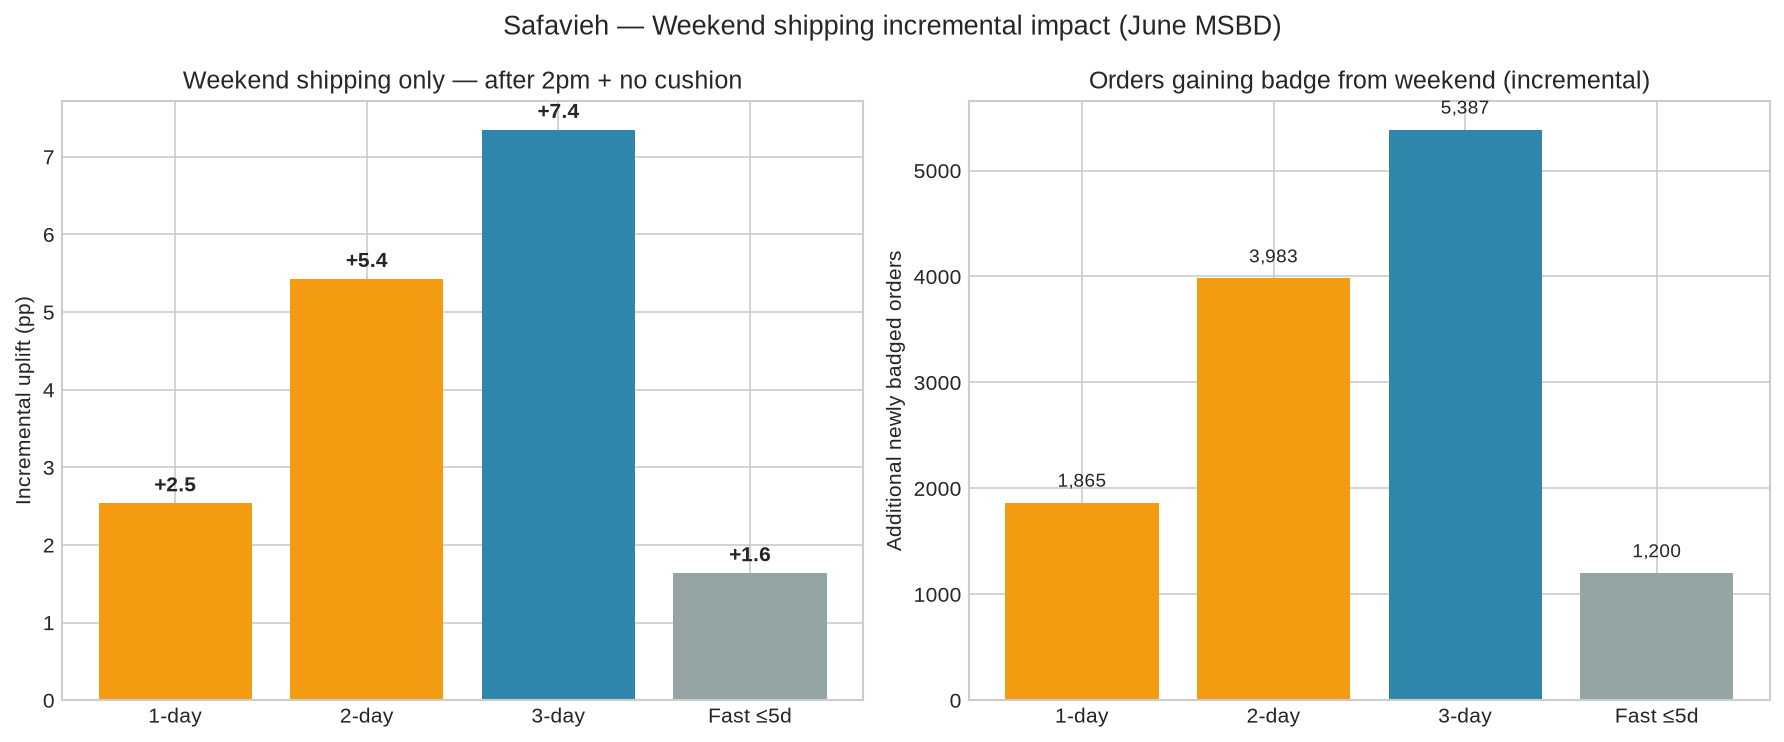
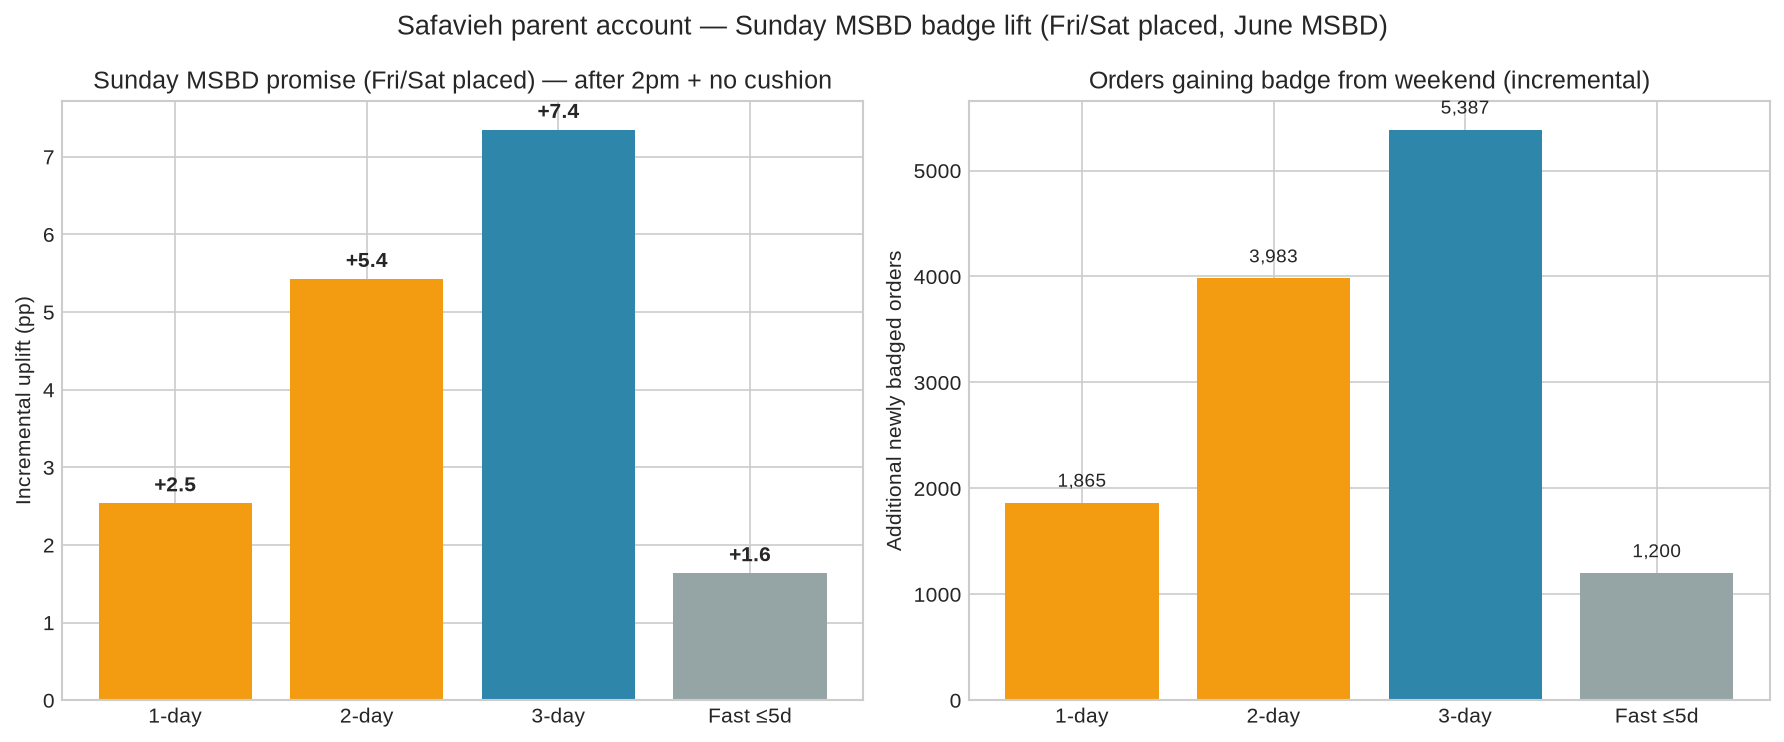
Refresh Sunday MSBD lift charts and add weekend shipping % chart
- Account + warehouse Sunday MSBD lift (Fri/Sat placed) charts 21–22
- Weekend shipping % by warehouse (induction_dow_adj 1/7) chart 20
- Extend badging gain SQL with parent account rollup; refresh charts 08–14

Changed region(s): [[0.2158, 0.0, 0.7707, 0.062], [0.0308, 0.093, 0.4624, 0.124]]

diff --git a/scripts/analyze_safavieh_charts.py b/scripts/analyze_safavieh_charts.py
@@ -21,6 +21,8 @@ WH_SIM_CSV = OUT / "safavieh_june_wh_badging_sim.csv"
 GAIN_CSV = OUT / "safavieh_june_badging_gain_by_warehouse.csv"
 GAIN_VW_CSV = OUT / "safavieh_june_badging_gain_volume_weighted.csv"
 FRI_SAT_SUN_CSV = OUT / "safavieh_june_fri_sat_sunday_induction_by_wh.csv"
+FRI_SAT_WKND_CSV = OUT / "safavieh_june_fri_sat_weekend_shipping_by_wh.csv"
+GAIN_ACCOUNT_CSV = OUT / "safavieh_june_badging_gain_account.csv"
 
 NAVY = "#1a365d"
 ACCENT = "#2e86ab"
@@ -184,7 +186,7 @@ def chart_network_cohort_current_and_lifts(scen: pd.DataFrame) -> None:
         weekend_lift,
         width,
         bottom=cur + cutoff_lift,
-        label="+ Weekend",
+        label="+ Sunday MSBD (Fri/Sat)",
         color=ORANGE,
         **edge,
     )
@@ -213,7 +215,7 @@ def chart_network_cohort_current_and_lifts(scen: pd.DataFrame) -> None:
     ax.text(
         0.99,
         0.02,
-        "Each bar = current + cutoff lift + weekend lift · 73,294 ops",
+        "Each bar = current + cutoff lift + Sunday MSBD lift (Fri/Sat) · 73,294 ops",
         transform=ax.transAxes,
         ha="right",
         fontsize=9,
@@ -244,7 +246,7 @@ def chart_weekend_incremental(scen: pd.DataFrame) -> None:
     colors = [ORANGE, ORANGE, ACCENT, GRAY]
     ax1.bar(tiers, uplifts, color=colors)
     ax1.set_ylabel("Incremental uplift (pp)")
-    ax1.set_title("Weekend shipping only — after 2pm + no cushion")
+    ax1.set_title("Sunday MSBD promise (Fri/Sat placed) — after 2pm + no cushion")
     for i, v in enumerate(uplifts):
         ax1.text(i, v + 0.15, f"+{v:.1f}", ha="center", fontweight="bold")
 
@@ -254,7 +256,10 @@ def chart_weekend_incremental(scen: pd.DataFrame) -> None:
     for i, v in enumerate(newly):
         ax2.text(i, v + 150, f"{v:,}", ha="center", fontsize=9)
 
-    fig.suptitle("Safavieh — Weekend shipping incremental impact (June MSBD)", fontsize=13)
+    fig.suptitle(
+        "Safavieh parent account — Sunday MSBD badge lift (Fri/Sat placed, June MSBD)",
+        fontsize=13,
+    )
     fig.tight_layout()
     fig.savefig(CHARTS / "08_weekend_incremental_by_tier.png", dpi=150, bbox_inches="tight")
     plt.close(fig)
@@ -386,7 +391,7 @@ def chart_wh_pp_vs_network_contribution_3d(df: pd.DataFrame) -> None:
     ax.set_yticklabels(sub["warehouse"], fontsize=9)
     ax.set_xlabel("Percentage points (3-day badge)")
     ax.set_title(
-        "Safavieh — 3-Day Badge: Weekend Warehouse Gain vs Parent Account Contribution"
+        "Safavieh — 3-Day Badge: Sunday MSBD Warehouse Gain vs Parent Account Contribution"
     )
     ax.legend(loc="lower right", fontsize=9)
     for i, (w, n, vol_pct) in enumerate(zip(wh_pp, net_pp, sub["pct_network_vol"])):
@@ -429,7 +434,7 @@ def chart_network_contrib_stacked_3d(df: pd.DataFrame) -> None:
     ax.set_yticks([])
     ax.set_xlabel("Parent account 3-day badge uplift from weekend (pp)")
     ax.set_title(
-        f"Safavieh parent — weekend 3-day gain decomposed by warehouse "
+        f"Safavieh parent — Sunday MSBD 3-day gain decomposed by warehouse "
         f"(total +{total:.2f} pp · {int(sub['weekend_new_3d'].sum()):,} orders)"
     )
     ax.axvline(total, color=NAVY, linestyle="--", alpha=0.5)
@@ -497,10 +502,10 @@ def chart_fri_sat_sunday_induction_by_wh(df: pd.DataFrame) -> None:
         linewidth=1.2,
         label=f"Network avg ({(df['pct_fri_sat_induct_sunday'] * 100).mean():.0f}%)",
     )
-    ax.set_xlabel("% of Fri/Sat-placed orders inducted on Sunday")
+    ax.set_xlabel("% of Fri/Sat-placed orders inducted on Sunday (induction_dow_adj = 1)")
     ax.set_title(
         "Safavieh — Fri/Sat Orders Inducting on Sunday by Warehouse\n"
-        "June 2026 MSBD · supplier ID · site name · location"
+        "June 2026 MSBD · order_dow 5–6 (Fri/Sat placed) · Sun = induction_dow_adj 1"
     )
     ax.set_xlim(0, max(pct.max() + 8, 35))
     ax.tick_params(axis="y", labelsize=8)
@@ -518,6 +523,156 @@ def chart_fri_sat_sunday_induction_by_wh(df: pd.DataFrame) -> None:
     plt.close(fig)
 
 
+def chart_fri_sat_weekend_shipping_by_wh(df: pd.DataFrame) -> None:
+    """Fri/Sat placed — % inducted Sat or Sun (induction_dow_adj 1 or 7)."""
+    df = df.copy()
+    df["label"] = df.apply(
+        lambda r: (
+            f"{int(r['supplier_id'])} · {r['su_name']} · "
+            f"{str(r['city_name']).strip()}, {r['state_name']}"
+        ),
+        axis=1,
+    )
+    df = df.sort_values("fri_sat_vol", ascending=True)
+    pct = df["pct_fri_sat_weekend_ship"] * 100
+    n_wk = df["fri_sat_induct_weekend"]
+    fri_sat = df["fri_sat_vol"]
+
+    fig, ax = plt.subplots(figsize=(11, 7))
+    colors = [
+        GREEN if p >= 45 else ORANGE if p >= 25 else RED
+        for p in pct
+    ]
+    bars = ax.barh(df["label"], pct, color=colors, height=0.72)
+    net_avg = (df["pct_fri_sat_weekend_ship"] * 100).mean()
+    ax.axvline(
+        net_avg,
+        color=NAVY,
+        linestyle="--",
+        linewidth=1.2,
+        label=f"Network avg ({net_avg:.0f}%)",
+    )
+    ax.axvline(70, color=GREEN, linestyle=":", linewidth=1, alpha=0.65, label="70% enable threshold")
+    ax.set_xlabel("% of Fri/Sat-placed orders inducted Sat or Sun (induction_dow_adj 1 or 7)")
+    ax.set_title(
+        "Safavieh — Weekend Shipping % by Warehouse (Fri/Sat placed)\n"
+        "June 2026 MSBD · Sun=1, Sat=7"
+    )
+    ax.set_xlim(0, max(pct.max() + 10, 75))
+    ax.tick_params(axis="y", labelsize=8)
+    for bar, p, nw, fs in zip(bars, pct, n_wk, fri_sat):
+        ax.text(
+            bar.get_width() + 0.8,
+            bar.get_y() + bar.get_height() / 2,
+            f"{p:.0f}%  ({int(nw):,} / {int(fs):,})",
+            va="center",
+            fontsize=8,
+        )
+    ax.legend(loc="lower right")
+    fig.tight_layout()
+    fig.savefig(CHARTS / "20_fri_sat_weekend_shipping_by_wh.png", dpi=150, bbox_inches="tight")
+    plt.close(fig)
+
+
+def chart_account_sunday_msbd_lift(scen: pd.DataFrame, account: pd.DataFrame | None = None) -> None:
+    """Parent account — incremental pp from Sunday MSBD promise (Fri/Sat placed)."""
+    if "policy_2pm_no_cushion" not in scen["scenario"].values:
+        return
+    policy = scen.loc[scen["scenario"] == "policy_2pm_no_cushion"].iloc[0]
+    full = scen.loc[scen["scenario"] == "policy_plus_weekend"].iloc[0]
+    tiers = ["1-day", "2-day", "3-day", "Fast (≤5d)"]
+    cols = ["badge_1d_pct", "badge_2d_pct", "badge_3d_pct", "badge_5d_fast_pct"]
+    wknd_cols = ["wknd_incr_1d", "wknd_incr_2d", "wknd_incr_3d", "wknd_incr_5d"]
+    uplifts = [full[c] - policy[c] for c in cols]
+    if all(c in full.index for c in wknd_cols):
+        newly = [int(full[c]) for c in wknd_cols]
+    else:
+        newly = [
+            int(full["newly_fast_1d"] - policy["newly_fast_1d"]),
+            int(full["newly_fast_2d"] - policy["newly_fast_2d"]),
+            int(full["newly_fast_3d"] - policy["newly_fast_3d"]),
+            int(full["newly_fast_5d"] - policy["newly_fast_5d"]),
+        ]
+
+    if account is not None and len(account):
+        row = account.iloc[0]
+        uplifts = [
+            row["weekend_gain_1d_pp"],
+            row["weekend_gain_2d_pp"],
+            row["weekend_gain_3d_pp"],
+            row["weekend_gain_fast_pp"],
+        ]
+        newly = [
+            int(row["weekend_new_1d"]),
+            int(row["weekend_new_2d"]),
+            int(row["weekend_new_3d"]),
+            int(row["weekend_new_fast"]),
+        ]
+
+    fig, (ax1, ax2) = plt.subplots(1, 2, figsize=(12, 5))
+    colors = [ORANGE, ORANGE, ACCENT, GRAY]
+    ax1.bar(tiers, uplifts, color=colors)
+    ax1.set_ylabel("Incremental lift (pp)")
+    ax1.set_title("Parent account — Sunday MSBD promise lift by tier")
+    for i, v in enumerate(uplifts):
+        ax1.text(i, v + 0.2, f"+{v:.1f}", ha="center", fontweight="bold")
+
+    ax2.bar(tiers, newly, color=colors)
+    ax2.set_ylabel("Additional newly badged orders")
+    ax2.set_title("Orders gaining badge (incremental after cutoff policy)")
+    for i, v in enumerate(newly):
+        ax2.text(i, v + 120, f"{v:,}", ha="center", fontsize=9)
+
+    fig.suptitle(
+        "Safavieh parent account — Sunday MSBD lift (Fri/Sat placed · June MSBD · stated o2d_stated)",
+        fontsize=12,
+        y=1.02,
+    )
+    fig.tight_layout()
+    fig.savefig(CHARTS / "21_account_sunday_msbd_lift.png", dpi=150, bbox_inches="tight")
+    plt.close(fig)
+
+
+def chart_warehouse_sunday_msbd_lift(gain: pd.DataFrame) -> None:
+    """Warehouse-level Sunday MSBD lift (pp) by badge tier."""
+    wh = gain[gain["vol"] >= 200].copy()
+    wh["warehouse"] = wh["city_name"].str.strip() + ", " + wh["state_name"]
+    wh = wh.sort_values("vol", ascending=True)
+    tiers = ["1-day", "2-day", "3-day", "Fast ≤5d"]
+    cols = [
+        "weekend_gain_1d_pp",
+        "weekend_gain_2d_pp",
+        "weekend_gain_3d_pp",
+        "weekend_gain_fast_pp",
+    ]
+    tier_colors = [ORANGE, ORANGE, ACCENT, GRAY]
+
+    y = np.arange(len(wh))
+    n = len(tiers)
+    h = 0.8 / n
+    fig, ax = plt.subplots(figsize=(11, max(6, len(wh) * 0.45)))
+
+    for i, (tier, col, color) in enumerate(zip(tiers, cols, tier_colors)):
+        offset = (i - (n - 1) / 2) * h
+        vals = wh[col].values
+        ax.barh(y + offset, vals, height=h * 0.92, label=tier, color=color, alpha=0.9)
+        for j, v in enumerate(vals):
+            if v >= 1.5:
+                ax.text(v + 0.15, y[j] + offset, f"+{v:.1f}", va="center", fontsize=6, color=color)
+
+    ax.set_yticks(y)
+    ax.set_yticklabels(wh["warehouse"], fontsize=9)
+    ax.set_xlabel("Sunday MSBD lift (pp) — incremental after cutoff policy")
+    ax.set_title(
+        "Safavieh — Sunday MSBD Badge Lift by Warehouse (Fri/Sat placed)\n"
+        "June MSBD · stated speed simulation"
+    )
+    ax.legend(loc="lower right", fontsize=8, ncol=2)
+    fig.tight_layout()
+    fig.savefig(CHARTS / "22_warehouse_sunday_msbd_lift.png", dpi=150, bbox_inches="tight")
+    plt.close(fig)
+
+
 def main() -> None:
     CHARTS.mkdir(parents=True, exist_ok=True)
     plt.style.use("seaborn-v0_8-whitegrid")
@@ -531,6 +686,10 @@ def main() -> None:
     chart_badging_tiers(scen)
     chart_network_cohort_current_and_lifts(scen)
     chart_weekend_incremental(scen)
+    account_df = None
+    if GAIN_ACCOUNT_CSV.exists():
+        account_df = pd.read_csv(GAIN_ACCOUNT_CSV)
+    chart_account_sunday_msbd_lift(scen, account_df)
     chart_badging_uplift(scen)
     chart_volume_by_warehouse(wh)
 
@@ -542,6 +701,7 @@ def main() -> None:
 
         gain_vw = enrich_gain_table()
         gain_vw.to_csv(GAIN_VW_CSV, index=False)
+        chart_warehouse_sunday_msbd_lift(gain_vw)
         chart_wh_pp_vs_network_contribution_3d(gain_vw)
         chart_network_contrib_stacked_3d(gain_vw)
         chart_gain_volume_scatter(gain_vw)
@@ -555,6 +715,16 @@ def main() -> None:
         fri_sat = query_df(sql)
         fri_sat.to_csv(FRI_SAT_SUN_CSV, index=False)
         chart_fri_sat_sunday_induction_by_wh(fri_sat)
+
+    if FRI_SAT_WKND_CSV.exists():
+        chart_fri_sat_weekend_shipping_by_wh(pd.read_csv(FRI_SAT_WKND_CSV))
+    elif (ROOT / "sql/safavieh_june_fri_sat_weekend_shipping_by_wh.sql").exists():
+        from gbq import query_df
+
+        sql = (ROOT / "sql/safavieh_june_fri_sat_weekend_shipping_by_wh.sql").read_text()
+        fri_wk = query_df(sql)
+        fri_wk.to_csv(FRI_SAT_WKND_CSV, index=False)
+        chart_fri_sat_weekend_shipping_by_wh(fri_wk)
 
     print(f"Charts saved to {CHARTS}")
     for p in sorted(CHARTS.glob("*.png")):

diff --git a/scripts/enrich_safavieh_gain_volume_weighted.py b/scripts/enrich_safavieh_gain_volume_weighted.py
@@ -18,7 +18,14 @@ NETWORK_VOL_FALLBACK = 73294
 
 
 def enrich_gain_table(network_vol: int | None = None) -> pd.DataFrame:
-    df = pd.read_csv(GAIN_CSV)
+    raw = pd.read_csv(GAIN_CSV)
+    if "level" in raw.columns:
+        df = raw[raw["level"] == "warehouse"].copy()
+        account = raw[raw["level"] == "account"]
+        if len(account):
+            account.to_csv(OUT / "safavieh_june_badging_gain_account.csv", index=False)
+    else:
+        df = raw.copy()
     if network_vol is None:
         if SCEN_CSV.exists():
             scen = pd.read_csv(SCEN_CSV)

diff --git a/scripts/run_safavieh_analysis.py b/scripts/run_safavieh_analysis.py
@@ -170,6 +170,11 @@ def main() -> None:
         SQL_DIR / "safavieh_june_fri_sat_sunday_induction_by_wh.sql",
         OUT / "safavieh_june_fri_sat_sunday_induction_by_wh.csv",
     )
+    run_query(
+        "Fri/Sat weekend shipping % by warehouse",
+        SQL_DIR / "safavieh_june_fri_sat_weekend_shipping_by_wh.sql",
+        OUT / "safavieh_june_fri_sat_weekend_shipping_by_wh.csv",
+    )
     print("\nDone. Next steps:")
     print("  python scripts/analyze_safavieh_charts.py")
     print("  python scripts/create_safavieh_google_slides.py")
